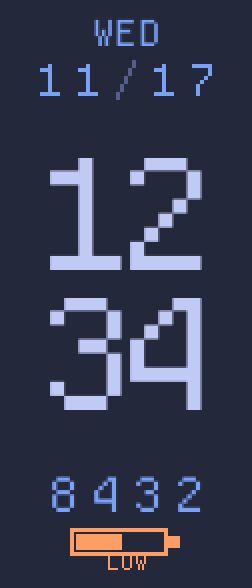
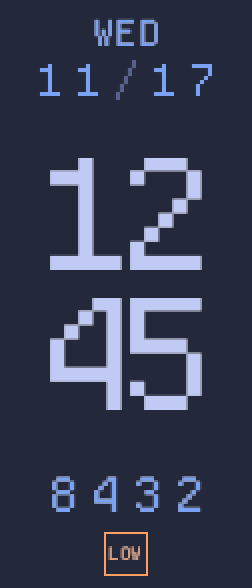
feat(assets): regenerate pixel-exact preview images with symmetrical battery layout

diff --git a/scripts/generate_demos.py b/scripts/generate_demos.py
@@ -1,0 +1,122 @@
+#!/usr/bin/env python3
+"""Generate pixel-exact 2x preview PNG images from watch face assets."""
+
+import json
+from pathlib import Path
+from PIL import Image
+
+ROOT = Path(__file__).resolve().parent.parent
+
+
+def render_face(face_name, hh="12", mm="45", date_str="11/17", day_str="WED", steps="8432", batt_pct=85):
+    face_dir = ROOT / "faces" / face_name
+    wf = json.loads((face_dir / "watchface.json").read_text())
+
+    canvas = Image.new("RGBA", (126, 294), (0, 0, 0, 255))
+    bg = Image.open(face_dir / "0.png")
+    canvas.paste(bg, (0, 0))
+
+    # Time: Hours and Minutes
+    time_cfg = wf.get("Time", {})
+    if "Hours" in time_cfg:
+        th = time_cfg["Hours"]
+        h0 = Image.open(face_dir / f"{th['Tens']['ImageIndex'] + int(hh[0])}.png")
+        h1 = Image.open(face_dir / f"{th['Ones']['ImageIndex'] + int(hh[1])}.png")
+        canvas.paste(h0, (th["Tens"]["X"], th["Tens"]["Y"]), h0)
+        canvas.paste(h1, (th["Ones"]["X"], th["Ones"]["Y"]), h1)
+    if "Minutes" in time_cfg:
+        tm = time_cfg["Minutes"]
+        m0 = Image.open(face_dir / f"{tm['Tens']['ImageIndex'] + int(mm[0])}.png")
+        m1 = Image.open(face_dir / f"{tm['Ones']['ImageIndex'] + int(mm[1])}.png")
+        canvas.paste(m0, (tm["Tens"]["X"], tm["Tens"]["Y"]), m0)
+        canvas.paste(m1, (tm["Ones"]["X"], tm["Ones"]["Y"]), m1)
+
+    # Date and Weekday
+    date_cfg = wf.get("Date", {})
+    if "MonthAndDayAndYear" in date_cfg and "OneLine" in date_cfg["MonthAndDayAndYear"]:
+        num_cfg = date_cfg["MonthAndDayAndYear"]["OneLine"]["Number"]
+        del_idx = date_cfg["MonthAndDayAndYear"]["OneLine"].get("DelimiterImageIndex")
+        imgs = []
+        for ch in date_str:
+            if ch.isdigit():
+                imgs.append(Image.open(face_dir / f"{num_cfg['ImageIndex'] + int(ch)}.png"))
+            elif ch == "/" and del_idx is not None:
+                imgs.append(Image.open(face_dir / f"{del_idx}.png"))
+        sp = num_cfg.get("SpacingX", 0)
+        tot = sum(im.width for im in imgs) + sp * (len(imgs) - 1)
+        tlx, tly = num_cfg["TopLeftX"], num_cfg["TopLeftY"]
+        brx, bry = num_cfg["BottomRightX"], num_cfg["BottomRightY"]
+        align = num_cfg.get("Alignment", "Center")
+        x = (tlx + brx - tot) // 2 if align == "Center" else tlx
+        ymid = (tly + bry) // 2
+        for im in imgs:
+            canvas.paste(im, (x, ymid - im.height // 2), im)
+            x += im.width + sp
+
+    if "ENWeekDays" in date_cfg:
+        wd_cfg = date_cfg["ENWeekDays"]
+        days = ["MON", "TUE", "WED", "THU", "FRI", "SAT", "SUN"]
+        di = days.index(day_str) if day_str in days else 0
+        wdim = Image.open(face_dir / f"{wd_cfg['ImageIndex'] + di}.png")
+        canvas.paste(wdim, (wd_cfg["X"], wd_cfg["Y"]), wdim)
+
+    # Steps
+    act_cfg = wf.get("Activity", {})
+    if "Steps" in act_cfg and "Number" in act_cfg["Steps"]:
+        sn_cfg = act_cfg["Steps"]["Number"]
+        imgs = [Image.open(face_dir / f"{sn_cfg['ImageIndex'] + int(ch)}.png") for ch in steps]
+        sp = sn_cfg.get("SpacingX", 0)
+        tot = sum(im.width for im in imgs) + sp * (len(imgs) - 1)
+        tlx, tly = sn_cfg["TopLeftX"], sn_cfg["TopLeftY"]
+        brx, bry = sn_cfg["BottomRightX"], sn_cfg["BottomRightY"]
+        align = sn_cfg.get("Alignment", "Center")
+        x = (tlx + brx - tot) // 2 if align == "Center" else tlx
+        ymid = (tly + bry) // 2
+        for im in imgs:
+            canvas.paste(im, (x, ymid - im.height // 2), im)
+            x += im.width + sp
+
+    # Battery
+    batt_cfg = wf.get("Battery", {})
+    if "BatteryIcon" in batt_cfg:
+        bi_cfg = batt_cfg["BatteryIcon"]
+        idx = min(bi_cfg["ImagesCount"] - 1, int(batt_pct / 100 * 5 + 0.5))
+        bim = Image.open(face_dir / f"{bi_cfg['ImageIndex'] + idx}.png")
+        if bim.getbbox() is not None:
+            canvas.paste(bim, (bi_cfg["X"], bi_cfg["Y"]), bim)
+
+    return canvas.resize((252, 588), Image.NEAREST)
+
+
+def main():
+    assets = ROOT / "assets"
+    assets.mkdir(exist_ok=True)
+
+    demos = [
+        ("demo-volt-low.png", "clean-night-12-volt", 12),
+        ("demo-batt-low.png", "clean-night-10-blue", 12),
+        ("demo-batt-critical.png", "clean-night-10-blue", 5),
+        ("demo-batt-normal.png", "clean-night-10-blue", 85),
+        ("demo-blue-normal.png", "clean-night-10-blue", 85),
+        ("demo-blue-low.png", "clean-night-10-blue", 12),
+        ("demo-blue-low2.png", "clean-night-10-blue", 12),
+        ("demo-blue-critical.png", "clean-night-10-blue", 5),
+        ("demo-blue-critical2.png", "clean-night-10-blue", 5),
+        ("demo-duo-sky.png", "clean-night-16-duo-sky", 85),
+        ("demo-duo-volt.png", "clean-night-12-volt", 85),
+        ("demo-custom-normal.png", "clean-night-18-custom", 85),
+        ("demo-custom-low.png", "clean-night-18-custom", 12),
+        ("demo-custom-critical.png", "clean-night-18-custom", 5),
+        ("demo-layout-low.png", "clean-night-18-custom", 12),
+        ("demo-tight-low.png", "clean-night-18-custom", 12),
+    ]
+
+    for filename, face_name, batt_pct in demos:
+        img = render_face(face_name, batt_pct=batt_pct)
+        target = assets / filename
+        img.save(target)
+        print(f"Generated {target.name} from {face_name} (battery {batt_pct}%)")
+
+
+if __name__ == "__main__":
+    main()

diff --git a/README.md b/README.md
@@ -12,7 +12,7 @@ The band has a 126x294 pixel AMOLED display. The designer renders real sprite PN
 
 - Exact pixel preview. The browser studio loads the real 126x294 PNG assets directly from disk. What you see on screen matches the hardware display.
 - Live rebuild workflow. Adjust colors, font sizes, spacing, or element order in the web interface. The server generates new PNG sprites and repacks the `.bin` firmware file.
-- Clean battery indicator. The battery icon remains completely hidden when the charge is 30% or higher. An orange indicator appears between 10% and 29%, and a red indicator appears below 10%.
+- Clean battery indicator. The battery indicator is a symmetrical square with LOW text that remains hidden when charge is 30% or higher. An orange square appears between 10% and 29%, and a red square appears below 10%.
 - Pre-built watch faces. Includes multiple ready-to-flash colorways based on Tokyo Night palettes and retro arcade styles.
 - Overflow warnings. If your element configuration exceeds the 294 pixel vertical screen limit, the designer reports the exact overflow in pixels.
 
